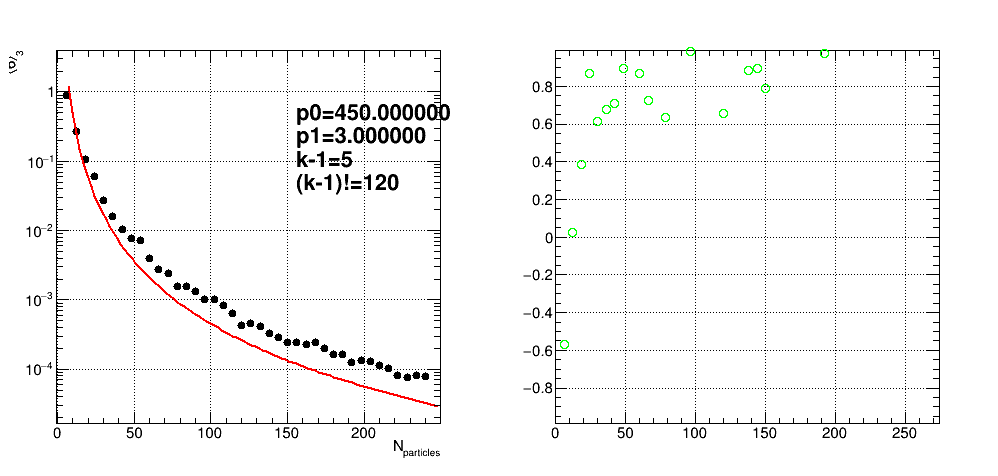
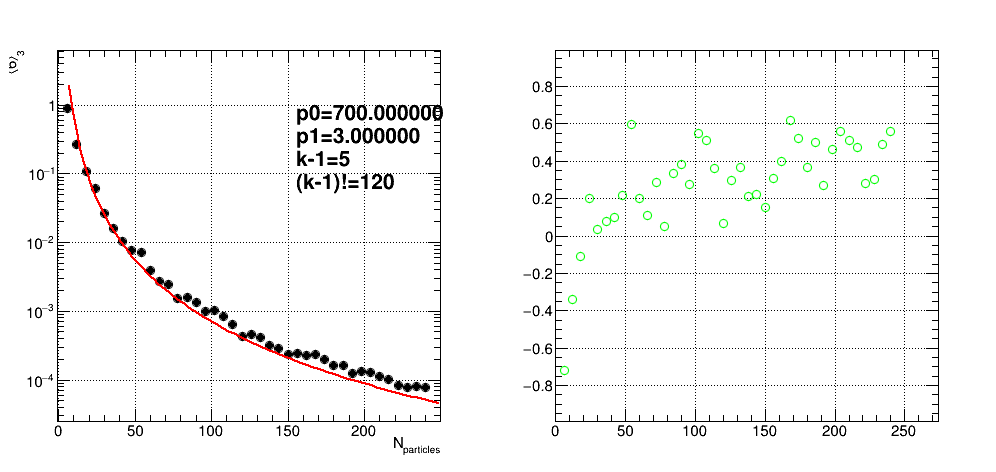
Minor changes to D_OHist and OHist

diff --git a/OHist.C b/OHist.C
@@ -1,5 +1,7 @@
+ofstream fout;
 void callHK(int,int);
 void OHist(){
+  fout.open("P0_of_K");
   callHK(2,2);
   callHK(2,3);
   callHK(2,4);
@@ -14,6 +16,7 @@ void OHist(){
   callHK(3,6);
   callHK(3,7);
   callHK(3,8);
+  fout.close();
 }
 void callHK(int H,int K){
   TFile* file = TFile::Open(Form("CondorOutput/Combined_h%d_k%d.root",H,K));
@@ -54,12 +57,13 @@ void callHK(int H,int K){
   if(K==2)fun.FixParameter(0,1.0);
   if(K==3)fun.FixParameter(0,3.0);
   if(K==5)fun.FixParameter(0,200.0);
-  if(K==6)fun.FixParameter(0,450.0);
+  if(K==6)fun.FixParameter(0,700.0);
   if(K==7)fun.FixParameter(0,10000.0);
   if(K==8)fun.FixParameter(0,30000.0);
   //if(K==3)fun.SetParLimits(1,K-2,K);
   //fun.SetParameter(1,K-1);
   histogram->Fit("fun","R");
+  fout<<K<<" "<<fun.GetParameter(0)<<endl;
   TLatex tex;
   tex.SetNDC();
   tex.DrawLatex(0.6,0.75,Form("p0=%f",fun.GetParameter(0)));

diff --git a/D_OHist.C b/D_OHist.C
@@ -1,5 +1,5 @@
 void callHK(int,int);
-void OHist(){
+void D_OHist(){
   callHK(2,2);
   callHK(2,3);
   callHK(2,4);
